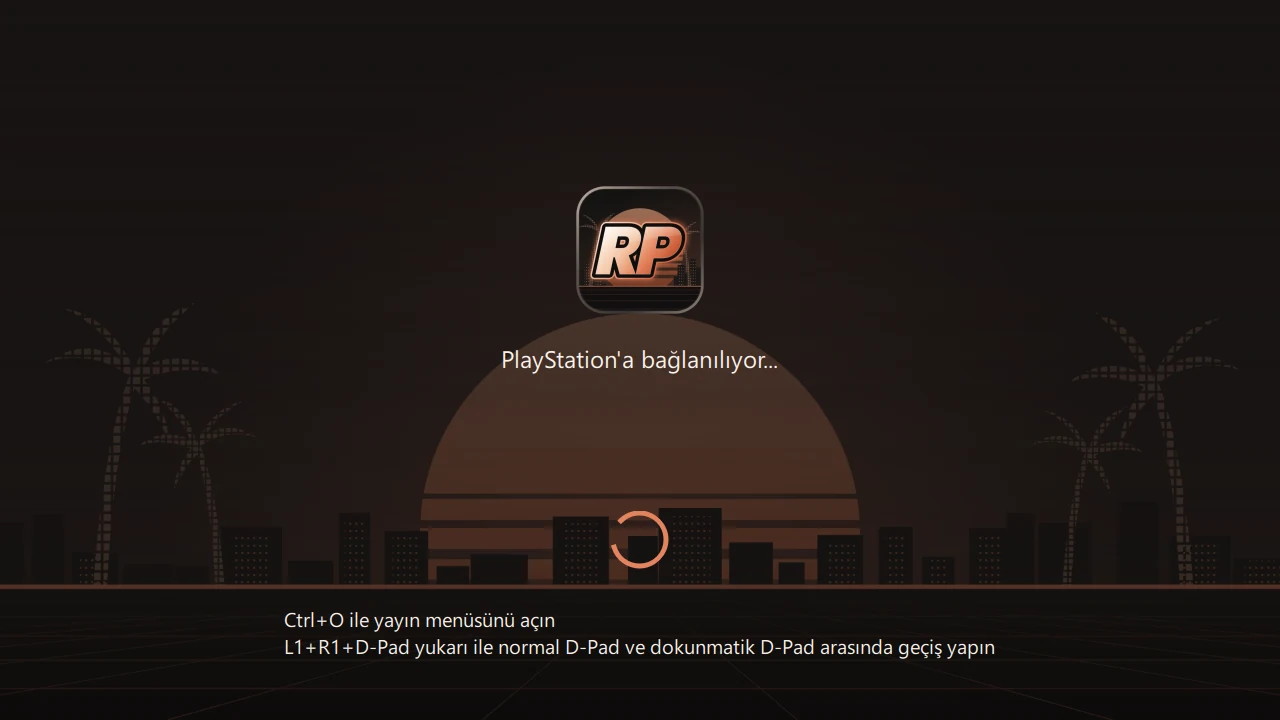
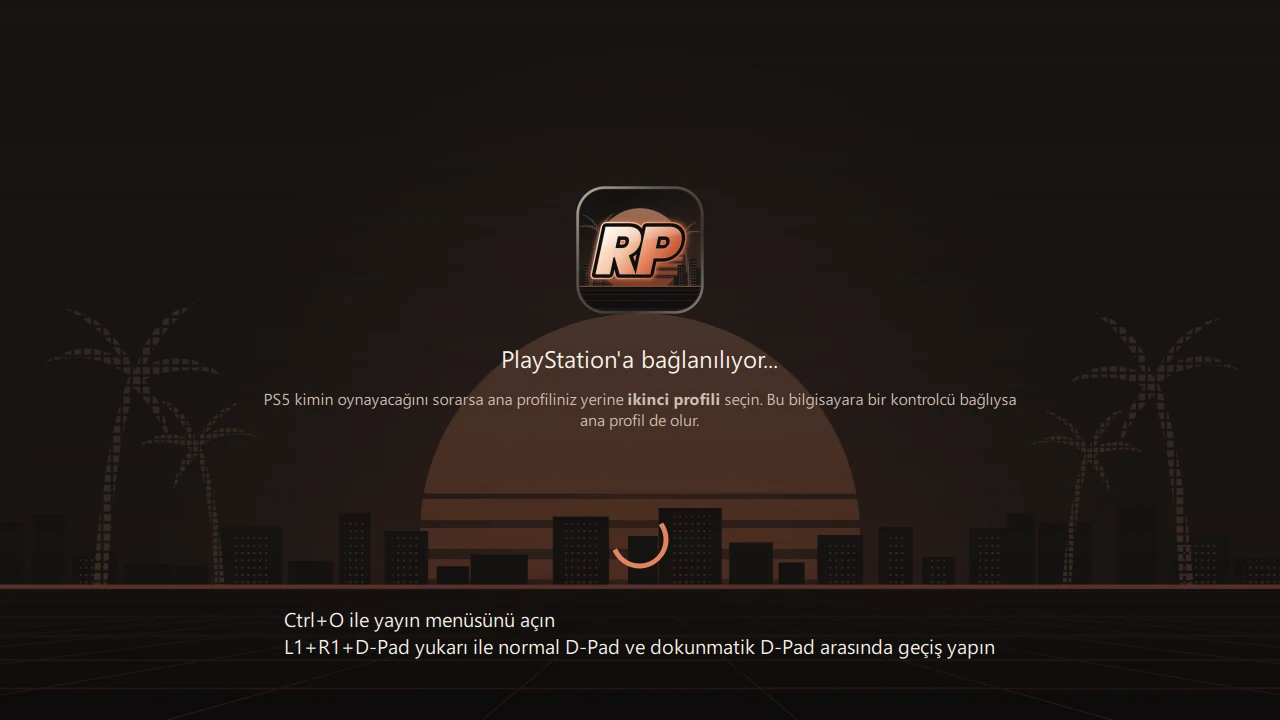
README görsellerini 0.4.1 ve yeni temayla yenile
Kurulum ekran görüntüleri 0.4.1 ile yeniden çekildi; 30 / 60 animasyonu
yeni temanın renkleriyle baştan üretildi.

Changed region(s): [[0.2188, 0.55, 0.7812, 0.6111], [0.4688, 0.7028, 0.5312, 0.7333]]

diff --git a/README.md b/README.md
@@ -104,7 +104,7 @@ Ekran kartının bir ara kareyi yaklaşık 10 milisaniyenin altında üretebilme
 
 ## Adım adım kurulum
 
-İndirmekten ilk oyuna. İlk dört adım hazırlık, sonrakiler uygulamanın içinde. Görüntüler Robz Play 0.4.0'dan alındı; konsolun adresi ve kimliği "yayıncı modu" ile gizlendi.
+İndirmekten ilk oyuna. İlk dört adım hazırlık, sonrakiler uygulamanın içinde. Görüntüler Robz Play 0.4.1'den alındı; konsolun adresi ve kimliği "yayıncı modu" ile gizlendi.
 
 ### Hazırlık
 
